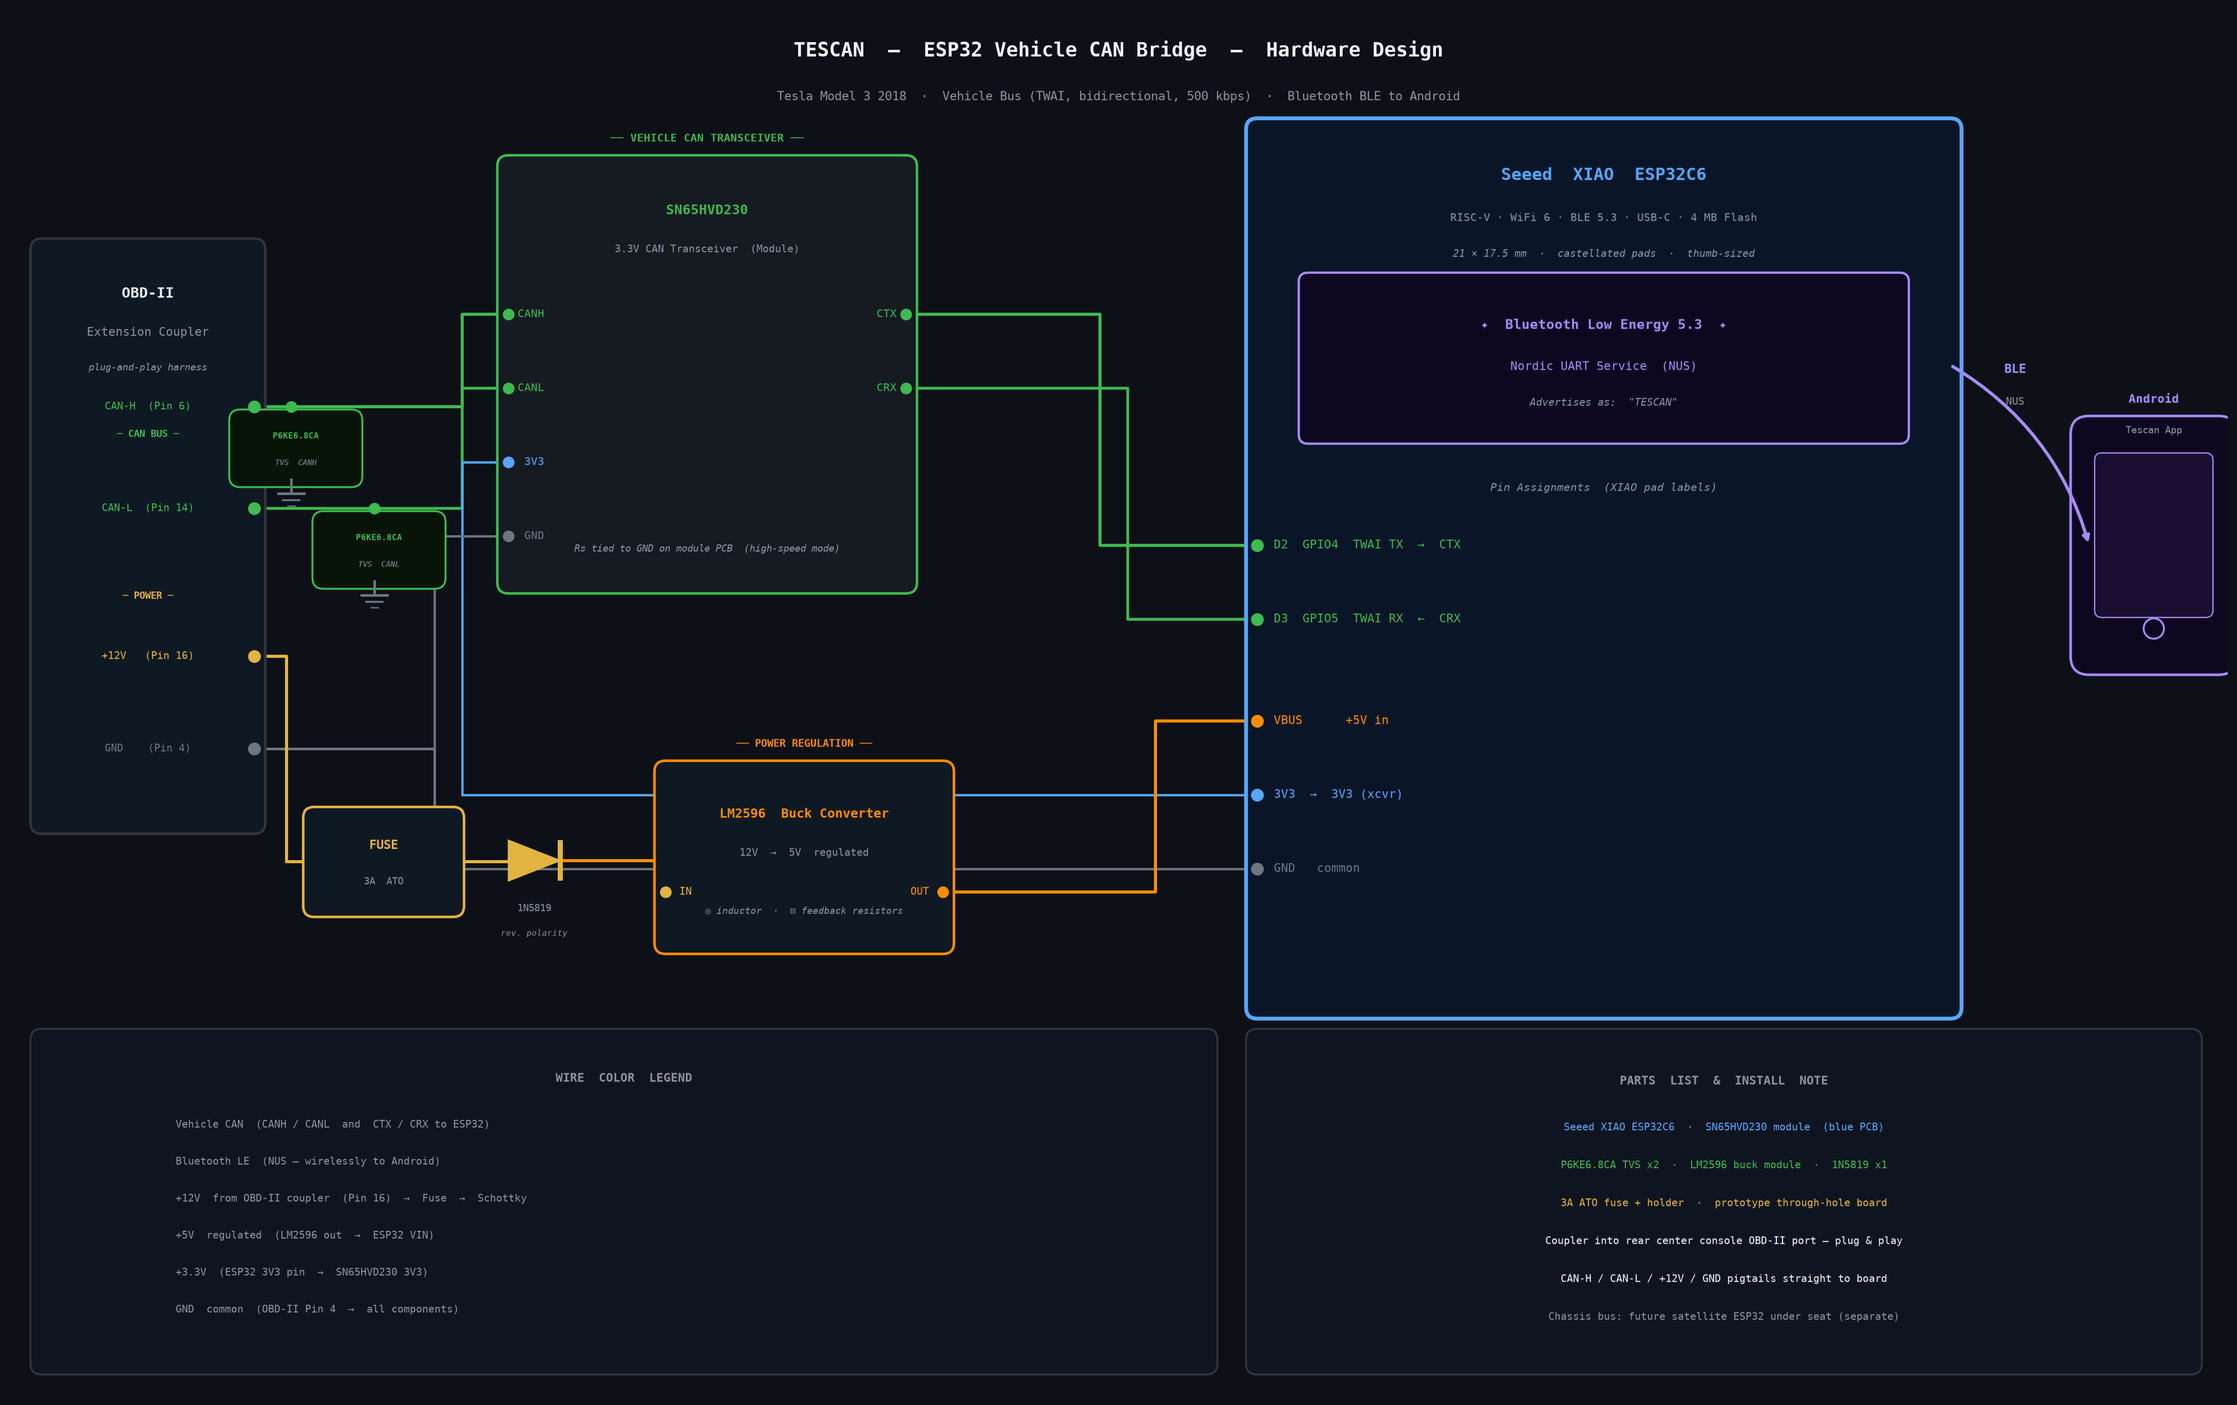
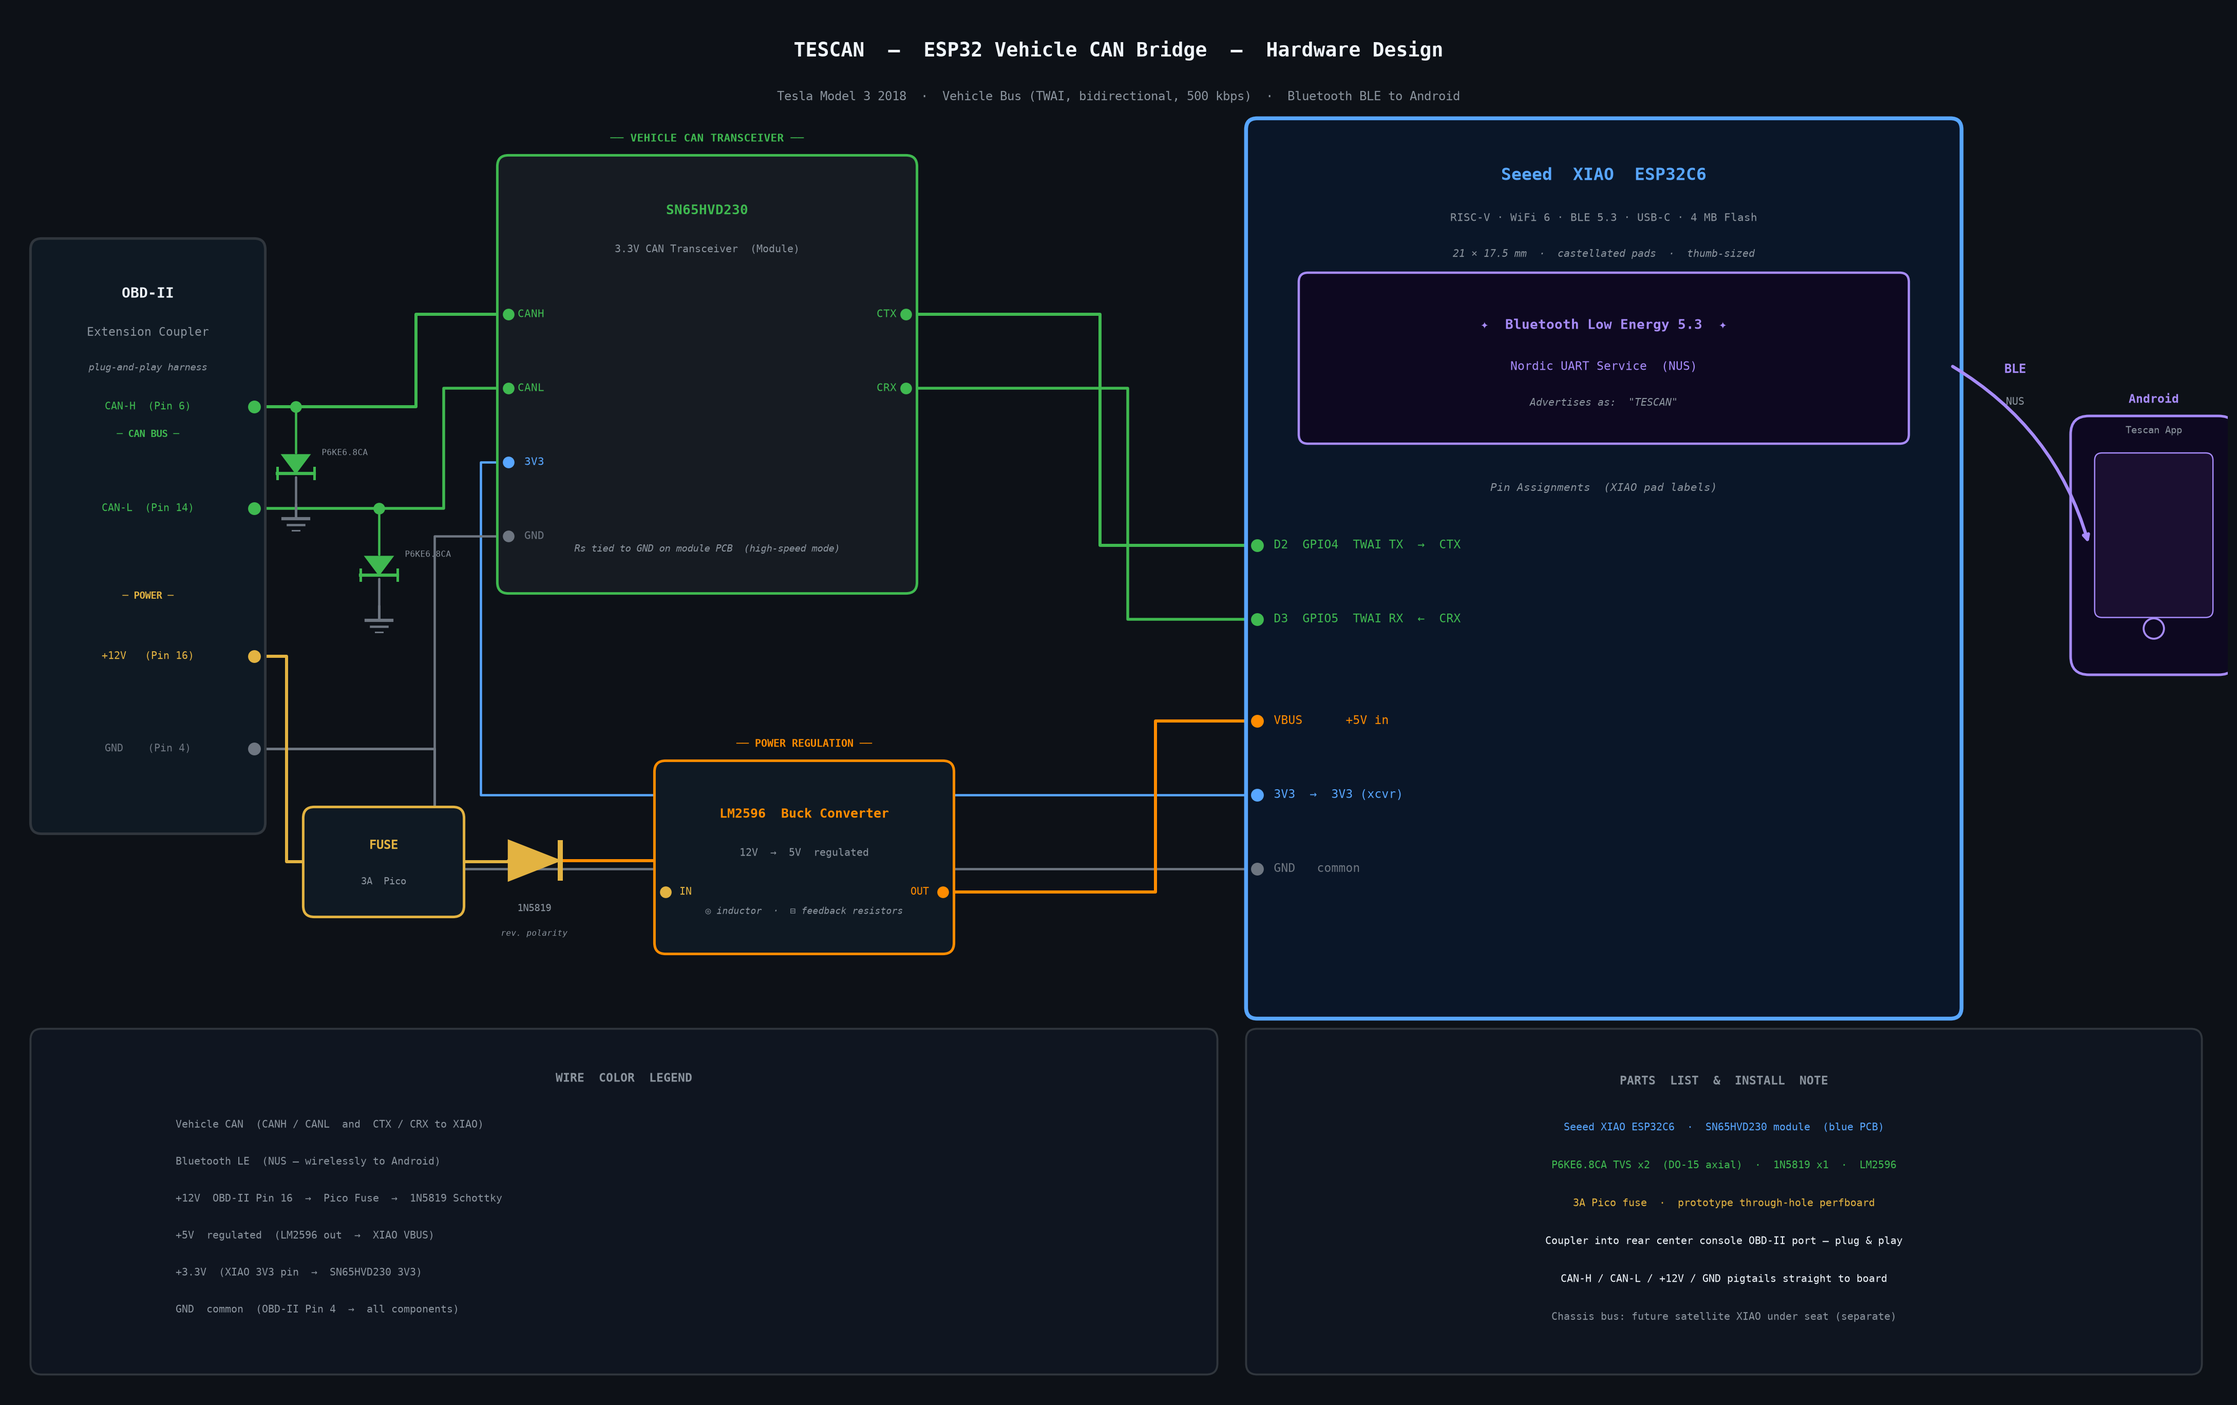
Improve hardware diagram: TVS schematic symbols, separated signal routing
- Replace giant TVS boxes with proper schematic symbols (triangle + bidirectional bar)
- Route CANH, CANL, and 3V3 to separate x-columns so they no longer visually merge
- GND symbols below each TVS diode per schematic convention

Claude-Session: https://claude.ai/code/session_01VWrqkGBkbzbcdbwnzxJ9HF

Changed region(s): [[0.1561, 0.2796, 0.2185, 0.4349], [0.0937, 0.2796, 0.1561, 0.3728]]

diff --git a/tools/hardware_diagram.py b/tools/hardware_diagram.py
@@ -1,9 +1,8 @@
 """
 TESCAN ESP32 Vehicle CAN Bridge — Hardware Design
-Vehicle bus only. Input: OBD-II extension coupler (4 pigtail wires).
-BLE (Nordic UART Service) to Android.
-Parts: ESP32 DevKit V1, SN65HVD230 module, P6KE6.8CA TVS (x2),
-       LM2596 buck, 1N5819 Schottky, 3A ATO fuse.
+Vehicle bus only. OBD-II extension coupler → perfboard.
+Parts: Seeed XIAO ESP32C6, SN65HVD230 module, P6KE6.8CA TVS (x2),
+       LM2596 buck, 1N5819 Schottky, 3A Pico fuse.
 """
 import matplotlib
 matplotlib.use('Agg')
@@ -35,16 +34,27 @@ def wire(pts,c,lw=2.4,zo=2):
     ax.plot(xs,ys,color=c,linewidth=lw,
             solid_capstyle='round',solid_joinstyle='round',zorder=zo)
 def gnd_sym(x, y, c):
-    ax.plot([x, x], [y+0.28, y+0.13], color=c, lw=2, zorder=5)
-    ax.plot([x-0.14, x+0.14], [y+0.13, y+0.13], color=c, lw=2, zorder=5)
-    ax.plot([x-0.09, x+0.09], [y+0.06, y+0.06], color=c, lw=1.5, zorder=5)
-    ax.plot([x-0.04, x+0.04], [y,      y     ], color=c, lw=1, zorder=5)
+    """GND symbol — connection point is top (y+0.28)"""
+    ax.plot([x, x],             [y+0.28, y+0.13], color=c, lw=2,   zorder=7)
+    ax.plot([x-0.14, x+0.14],  [y+0.13, y+0.13], color=c, lw=2.5, zorder=7)
+    ax.plot([x-0.09, x+0.09],  [y+0.06, y+0.06], color=c, lw=1.8, zorder=7)
+    ax.plot([x-0.04, x+0.04],  [y,      y      ], color=c, lw=1.2, zorder=7)
+def tvs_sym(x, yc, c):
+    """Bidirectional TVS schematic symbol — anode up, cathode bar down"""
+    h, w = 0.20, 0.15
+    ax.add_patch(plt.Polygon(
+        [[x-w, yc+h/2], [x+w, yc+h/2], [x, yc-h/2]],
+        closed=True, facecolor=c, edgecolor=c, zorder=6))
+    by = yc - h/2
+    ax.plot([x-w-0.05, x+w+0.05], [by, by], color=c, lw=2.5, zorder=7)
+    ax.plot([x-w-0.05, x-w-0.05], [by-0.06, by+0.06], color=c, lw=2, zorder=7)
+    ax.plot([x+w+0.05, x+w+0.05], [by-0.06, by+0.06], color=c, lw=2, zorder=7)
 
 # ─── Title ────────────────────────────────────────────────────────────────────
-t(FIG_W/2,14.55,'TESCAN  —  ESP32 Vehicle CAN Bridge  —  Hardware Design',TXT,15,bold=True)
-t(FIG_W/2,14.05,
+t(FIG_W/2, 14.55, 'TESCAN  —  ESP32 Vehicle CAN Bridge  —  Hardware Design', TXT, 15, bold=True)
+t(FIG_W/2, 14.05,
   'Tesla Model 3 2018  ·  Vehicle Bus (TWAI, bidirectional, 500 kbps)  ·  Bluetooth BLE to Android',
-  TXT2,9.5)
+  TXT2, 9.5)
 
 # ─── OBD-II Extension Coupler ─────────────────────────────────────────────────
 PX,PY,PW,PH = 0.35,6.2,2.3,6.2
@@ -59,60 +69,60 @@ for lbl,c,py in [('CAN-H  (Pin 6)',VEH,W_CH),('CAN-L  (Pin 14)',VEH,W_CL),
     t(PX+PW/2,py,lbl,c,8); dot(PX+PW,py,c,80)
 t(PX+PW/2,PY+PH-2.0,'─ CAN BUS ─',VEH,7.5,bold=True)
 t(PX+PW/2,PY+2.45,'─ POWER ─',P12,7.5,bold=True)
-PRX=PX+PW  # 2.65
+PRX = PX+PW  # = 2.65
 
-# ─── P6KE6.8CA TVS Diodes (bidirectional, DO-15 axial, through-hole) ─────────
-# Two shunt diodes: one on CANH, one on CANL — both clamp to GND
-T1X = 3.05   # CANH TVS junction x on wire
-T2X = 3.95   # CANL TVS junction x on wire
+# ─── P6KE6.8CA TVS Diodes — schematic symbols, shunt to GND ──────────────────
+# CAN wires route: CANH horizontal at y=W_CH to x=4.4, then vertical up to y=11.7
+#                  CANL horizontal at y=W_CL to x=4.7, then vertical up to y=10.9
+# TVS junctions sit on these horizontal runs
+T1X = 3.10   # CANH TVS junction x  (on horizontal segment PRX→4.4)
+T2X = 4.00   # CANL TVS junction x  (on horizontal segment PRX→4.7)
 
-# Junction dots on horizontal CAN wires
-dot(T1X, W_CH, VEH)   # CANH junction
-dot(T2X, W_CL, VEH)   # CANL junction
+TVS1_CY   = W_CH - 0.62   # = 10.08 — CANH TVS symbol centre
+TVS2_CY   = W_CL - 0.62   # = 8.98  — CANL TVS symbol centre
+TVS1_GND  = TVS1_CY - 0.72  # = 9.36 — GND symbol base (top at +0.28 = 9.64)
+TVS2_GND  = TVS2_CY - 0.72  # = 8.26 — GND symbol base
 
-# Drop wires from junctions down to TVS boxes
-wire([(T1X, W_CH), (T1X, 10.55)], VEH, lw=1.8)   # CANH drop
-wire([(T2X, W_CL), (T2X,  9.45)], VEH, lw=1.8)   # CANL drop
+# Junction dots
+dot(T1X, W_CH, VEH)
+dot(T2X, W_CL, VEH)
 
-# TVS component boxes
-# CANH TVS: box top = 10.55, height 0.60
-rbox(T1X-0.55, 9.95, 1.2, 0.60, VEH, '#081408', lw=1.5)
-t(T1X+0.05, 10.38, 'P6KE6.8CA', VEH, 6.5, bold=True)
-t(T1X+0.05, 10.09, 'TVS  CANH', TXT2, 6, italic=True)
+# CANH → TVS1 → GND  (drop wire crosses CANL line; no dot there = no junction)
+wire([(T1X, W_CH),         (T1X, TVS1_CY + 0.12)], VEH, lw=1.8)
+tvs_sym(T1X, TVS1_CY, VEH)
+wire([(T1X, TVS1_CY-0.14), (T1X, TVS1_GND + 0.28)], GND, lw=1.8)
+gnd_sym(T1X, TVS1_GND, GND)
+t(T1X+0.28, TVS1_CY+0.12, 'P6KE6.8CA', TXT2, 6.5, ha='left')
 
-# CANL TVS: box top = 9.45, height 0.60
-rbox(T2X-0.55, 8.85, 1.2, 0.60, VEH, '#081408', lw=1.5)
-t(T2X+0.05, 9.28,  'P6KE6.8CA', VEH, 6.5, bold=True)
-t(T2X+0.05, 8.99,  'TVS  CANL', TXT2, 6, italic=True)
+# CANL → TVS2 → GND
+wire([(T2X, W_CL),         (T2X, TVS2_CY + 0.12)], VEH, lw=1.8)
+tvs_sym(T2X, TVS2_CY, VEH)
+wire([(T2X, TVS2_CY-0.14), (T2X, TVS2_GND + 0.28)], GND, lw=1.8)
+gnd_sym(T2X, TVS2_GND, GND)
+t(T2X+0.28, TVS2_CY+0.12, 'P6KE6.8CA', TXT2, 6.5, ha='left')
 
-# GND symbols below each TVS
-gnd_sym(T1X, 9.63, GND)
-gnd_sym(T2X, 8.53, GND)
-
-# ─── SN65HVD230 Module (blue breakout, 3.3V, 6-pin) ──────────────────────────
+# ─── SN65HVD230 Module ────────────────────────────────────────────────────────
 VTX,VTY,VTW,VTH = 5.4,8.8,4.3,4.5
 rbox(VTX,VTY,VTW,VTH,VEH)
 t(VTX+VTW/2,VTY+VTH-0.48,'SN65HVD230',VEH,10.5,bold=True)
 t(VTX+VTW/2,VTY+VTH-0.90,'3.3V CAN Transceiver  (Module)',TXT2,8)
 ax.plot([VTX+0.3,VTX+VTW-0.3],[VTY+VTH-1.15]*2,color=BORD,linewidth=1)
-# Left side pins (CAN bus side): CANH, CANL, 3V3, GND
 for nm,c,py in [('CANH',VEH,VTY+VTH-1.6),('CANL',VEH,VTY+VTH-2.4),
                 (' 3V3',P33,VTY+VTH-3.2),(' GND',GND,VTY+VTH-4.0)]:
     t(VTX+0.1,py,nm,c,8.5,ha='left'); dot(VTX,py,c)
-# Right side pins (MCU side): CTX, CRX
 for nm,c,py in [('CTX',VEH,VTY+VTH-1.6),('CRX',VEH,VTY+VTH-2.4)]:
     t(VTX+VTW-0.1,py,nm,c,8.5,ha='right'); dot(VTX+VTW,py,c)
 t(VTX+VTW/2,VTY+0.36,'Rs tied to GND on module PCB  (high-speed mode)',TXT2,7.5,italic=True)
 t(VTX+VTW/2,VTY+VTH+0.30,'── VEHICLE CAN TRANSCEIVER ──',VEH,8.5,bold=True)
-VTRX=VTX+VTW  # 9.7
+VTRX = VTX+VTW  # = 9.7
 
-# ─── 3A ATO Fuse ──────────────────────────────────────────────────────────────
+# ─── 3A Pico Fuse ─────────────────────────────────────────────────────────────
 FX,FY=3.3,5.3
 rbox(FX,FY,1.5,0.95,P12,'#0f1923',lw=2)
 t(FX+0.75,FY+0.65,'FUSE',P12,9.5,bold=True)
-t(FX+0.75,FY+0.26,'3A  ATO',TXT2,7.5)
+t(FX+0.75,FY+0.26,'3A  Pico',TXT2,7.5)
 
-# ─── 1N5819 Schottky (reverse polarity protection) ────────────────────────────
+# ─── 1N5819 Schottky ──────────────────────────────────────────────────────────
 DX,DY=5.4,5.57
 ax.add_patch(plt.Polygon([[DX,DY+0.44],[DX+0.56,DY+0.22],[DX,DY]],
              closed=True,facecolor=P12,edgecolor=P12,zorder=5))
@@ -120,7 +130,7 @@ ax.plot([DX+0.56,DX+0.56],[DY,DY+0.44],color=P12,linewidth=4,solid_capstyle='but
 t(DX+0.28,DY-0.30,'1N5819',TXT2,7.5)
 t(DX+0.28,DY-0.57,'rev. polarity',TXT2,6.5,italic=True)
 
-# ─── LM2596 Buck Converter Module ─────────────────────────────────────────────
+# ─── LM2596 Buck ──────────────────────────────────────────────────────────────
 BX,BY,BW,BH=7.1,4.9,3.0,1.85
 rbox(BX,BY,BW,BH,P5,'#0f1923',lw=2)
 t(BX+BW/2,BY+BH-0.46,'LM2596  Buck Converter',P5,10,bold=True)
@@ -130,7 +140,7 @@ dot(BX,BY+BH-1.3,P12); t(BX+0.15,BY+BH-1.3,'IN',P12,8,ha='left')
 dot(BX+BW,BY+BH-1.3,P5); t(BX+BW-0.15,BY+BH-1.3,'OUT',P5,8,ha='right')
 t(BX+BW/2,BY+BH+0.30,'── POWER REGULATION ──',P5,8,bold=True)
 
-# ─── Seeed Studio XIAO ESP32C6 ───────────────────────────────────────────────
+# ─── Seeed XIAO ESP32C6 ───────────────────────────────────────────────────────
 EX,EY,EW,EH=13.5,4.2,7.5,9.5
 rbox(EX,EY,EW,EH,'#58a6ff','#0a1628',lw=3)
 t(EX+EW/2,EY+EH-0.50,'Seeed  XIAO  ESP32C6','#58a6ff',13,bold=True)
@@ -164,58 +174,57 @@ ax.annotate('',xy=(PHX,PHY+PHH/2),xytext=(EX+EW,EY+EH-2.55),
 t(21.7,11.1,'BLE',BLE,9.5,bold=True); t(21.7,10.75,'NUS',TXT2,8)
 
 # ─── Wires ────────────────────────────────────────────────────────────────────
-# CAN-H: coupler → TVS1 junction (dot) → SN65HVD230 CANH
-wire([(PRX,W_CH),(4.9,W_CH),(4.9,VTY+VTH-1.6),(VTX,VTY+VTH-1.6)],VEH)
+# CAN-H: coupler ─[TVS1 junction]─ horizontal ─ vertical(x=4.4) ─ SN65HVD230 CANH
+wire([(PRX,W_CH),(4.4,W_CH),(4.4,VTY+VTH-1.6),(VTX,VTY+VTH-1.6)], VEH)
 
-# CAN-L: coupler → TVS2 junction (dot) → SN65HVD230 CANL
-wire([(PRX,W_CL),(4.9,W_CL),(4.9,VTY+VTH-2.4),(VTX,VTY+VTH-2.4)],VEH,lw=2.2)
+# CAN-L: coupler ─[TVS2 junction]─ horizontal ─ vertical(x=4.7) ─ SN65HVD230 CANL
+wire([(PRX,W_CL),(4.7,W_CL),(4.7,VTY+VTH-2.4),(VTX,VTY+VTH-2.4)], VEH, lw=2.2)
 
-# SN65HVD230 CTX → ESP32 GPIO 21
-wire([(VTRX,VTY+VTH-1.6),(11.8,VTY+VTH-1.6),(11.8,EP[0][2]),(EX,EP[0][2])],VEH)
-# SN65HVD230 CRX → ESP32 GPIO 22
-wire([(VTRX,VTY+VTH-2.4),(12.1,VTY+VTH-2.4),(12.1,EP[1][2]),(EX,EP[1][2])],VEH,lw=2.2)
+# CTX: SN65HVD230 → XIAO D2 (GPIO4)
+wire([(VTRX,VTY+VTH-1.6),(11.8,VTY+VTH-1.6),(11.8,EP[0][2]),(EX,EP[0][2])], VEH)
+# CRX: SN65HVD230 → XIAO D3 (GPIO5)
+wire([(VTRX,VTY+VTH-2.4),(12.1,VTY+VTH-2.4),(12.1,EP[1][2]),(EX,EP[1][2])], VEH, lw=2.2)
 
-# 3.3V: ESP32 3V3 → SN65HVD230 3V3
-R33=4.9
-wire([(EX,EP[3][2]),(R33,EP[3][2]),(R33,VTY+VTH-3.2),(VTX,VTY+VTH-3.2)],P33,lw=1.8)
+# 3V3: XIAO → SN65HVD230  (vertical at x=5.1 — separate from CAN wires)
+wire([(EX,EP[3][2]),(5.1,EP[3][2]),(5.1,VTY+VTH-3.2),(VTX,VTY+VTH-3.2)], P33, lw=1.8)
 
-# GND: ESP32 GND → SN65HVD230 GND → OBD coupler Pin 4
+# GND: XIAO → SN65HVD230 → OBD coupler GND
 RGND=4.6
-wire([(EX,EP[4][2]),(RGND,EP[4][2]),(RGND,VTY+VTH-4.0),(VTX,VTY+VTH-4.0)],GND,lw=1.8)
-wire([(RGND,EP[4][2]),(RGND,W_GD),(PRX,W_GD)],GND,lw=2)
+wire([(EX,EP[4][2]),(RGND,EP[4][2]),(RGND,VTY+VTH-4.0),(VTX,VTY+VTH-4.0)], GND, lw=1.8)
+wire([(RGND,EP[4][2]),(RGND,W_GD),(PRX,W_GD)], GND, lw=2)
 
-# Power: OBD +12V → 3A fuse → 1N5819 → LM2596 → ESP32 VIN
-wire([(PRX,W_12),(3.0,W_12),(3.0,FY+0.48),(FX,FY+0.48)],P12)
-wire([(FX+1.5,FY+0.48),(DX,FY+0.48),(DX,DY+0.22)],P12)
-wire([(DX+0.56,DY+0.22),(BX,DY+0.22),(BX,BY+BH-1.3)],P5)
-wire([(BX+BW,BY+BH-1.3),(12.4,BY+BH-1.3),(12.4,EP[2][2]),(EX,EP[2][2])],P5)
+# Power: OBD +12V → Pico fuse → 1N5819 → LM2596 → XIAO VBUS
+wire([(PRX,W_12),(3.0,W_12),(3.0,FY+0.48),(FX,FY+0.48)], P12)
+wire([(FX+1.5,FY+0.48),(DX,FY+0.48),(DX,DY+0.22)], P12)
+wire([(DX+0.56,DY+0.22),(BX,DY+0.22),(BX,BY+BH-1.3)], P5)
+wire([(BX+BW,BY+BH-1.3),(12.4,BY+BH-1.3),(12.4,EP[2][2]),(EX,EP[2][2])], P5)
 
 # ─── Legend ───────────────────────────────────────────────────────────────────
 LX,LY,LW,LH=0.35,0.35,12.6,3.5
 rbox(LX,LY,LW,LH,BORD,'#0f1520',lw=1.5)
 t(LX+LW/2,LY+LH-0.42,'WIRE  COLOR  LEGEND',TXT2,9,bold=True)
 for i,(c,lbl) in enumerate([
-        (VEH,'Vehicle CAN  (CANH / CANL  and  CTX / CRX to ESP32)'),
+        (VEH,'Vehicle CAN  (CANH / CANL  and  CTX / CRX to XIAO)'),
         (BLE,'Bluetooth LE  (NUS — wirelessly to Android)'),
-        (P12,'+12V  from OBD-II coupler  (Pin 16)  →  Fuse  →  Schottky'),
-        (P5, '+5V  regulated  (LM2596 out  →  ESP32 VIN)'),
-        (P33,'+3.3V  (ESP32 3V3 pin  →  SN65HVD230 3V3)'),
+        (P12,'+12V  OBD-II Pin 16  →  Pico Fuse  →  1N5819 Schottky'),
+        (P5, '+5V  regulated  (LM2596 out  →  XIAO VBUS)'),
+        (P33,'+3.3V  (XIAO 3V3 pin  →  SN65HVD230 3V3)'),
         (GND,'GND  common  (OBD-II Pin 4  →  all components)')]):
     ry=LY+LH-0.92-i*0.40
     ax.plot([LX+0.3,LX+1.25],[ry,ry],color=c,linewidth=4,solid_capstyle='round')
     t(LX+1.45,ry,lbl,TXT2,8,ha='left')
 
-# ─── Parts List ───────────────────────────────────────────────────────────────
+# ─── Parts list ───────────────────────────────────────────────────────────────
 NX,NY,NW,NH=13.5,0.35,10.1,3.5
 rbox(NX,NY,NW,NH,BORD,'#0f1520',lw=1.5)
 t(NX+NW/2,NY+NH-0.45,'PARTS  LIST  &  INSTALL  NOTE',TXT2,9,bold=True)
 for i,(c,note) in enumerate([
-        (P33, 'Seeed XIAO ESP32C6  ·  SN65HVD230 module  (blue PCB)'),
-        (VEH, 'P6KE6.8CA TVS x2  ·  LM2596 buck module  ·  1N5819 x1'),
-        (P12, '3A ATO fuse + holder  ·  prototype through-hole board'),
-        (TXT, 'Coupler into rear center console OBD-II port — plug & play'),
-        (TXT, 'CAN-H / CAN-L / +12V / GND pigtails straight to board'),
-        (TXT2,'Chassis bus: future satellite ESP32 under seat (separate)')]):
+        (P33,'Seeed XIAO ESP32C6  ·  SN65HVD230 module  (blue PCB)'),
+        (VEH,'P6KE6.8CA TVS x2  (DO-15 axial)  ·  1N5819 x1  ·  LM2596'),
+        (P12,'3A Pico fuse  ·  prototype through-hole perfboard'),
+        (TXT,'Coupler into rear center console OBD-II port — plug & play'),
+        (TXT,'CAN-H / CAN-L / +12V / GND pigtails straight to board'),
+        (TXT2,'Chassis bus: future satellite XIAO under seat (separate)')]):
     t(NX+NW/2,NY+NH-0.95-i*0.41,note,c,7.8)
 
 plt.savefig('/home/user/Tescan/hardware_design.png',dpi=180,
